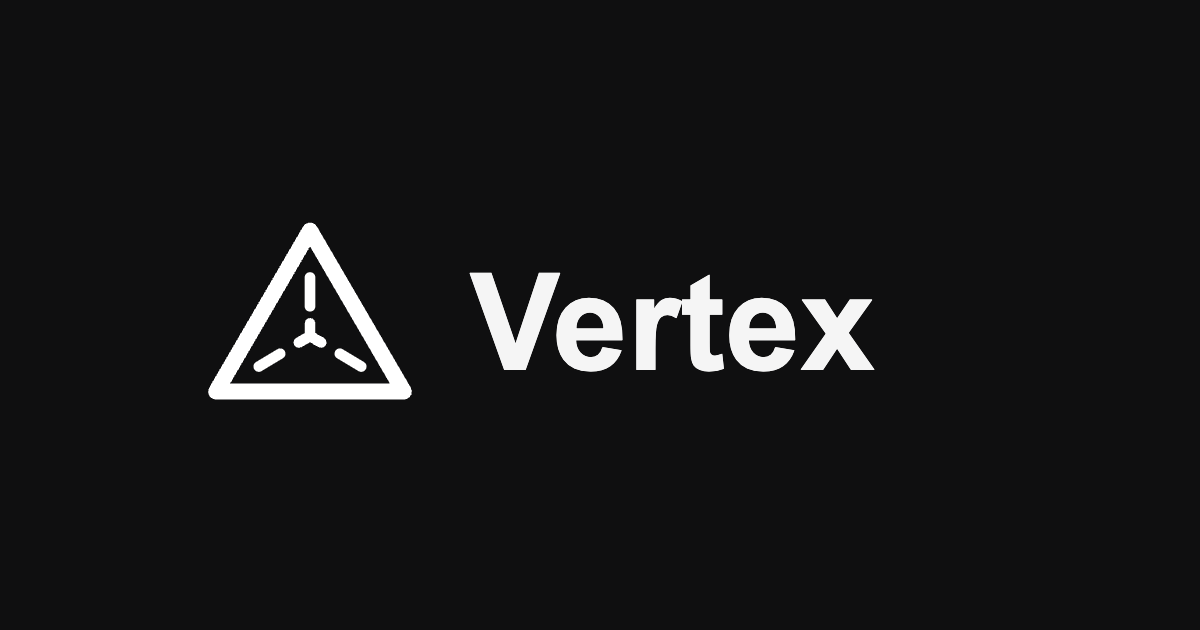
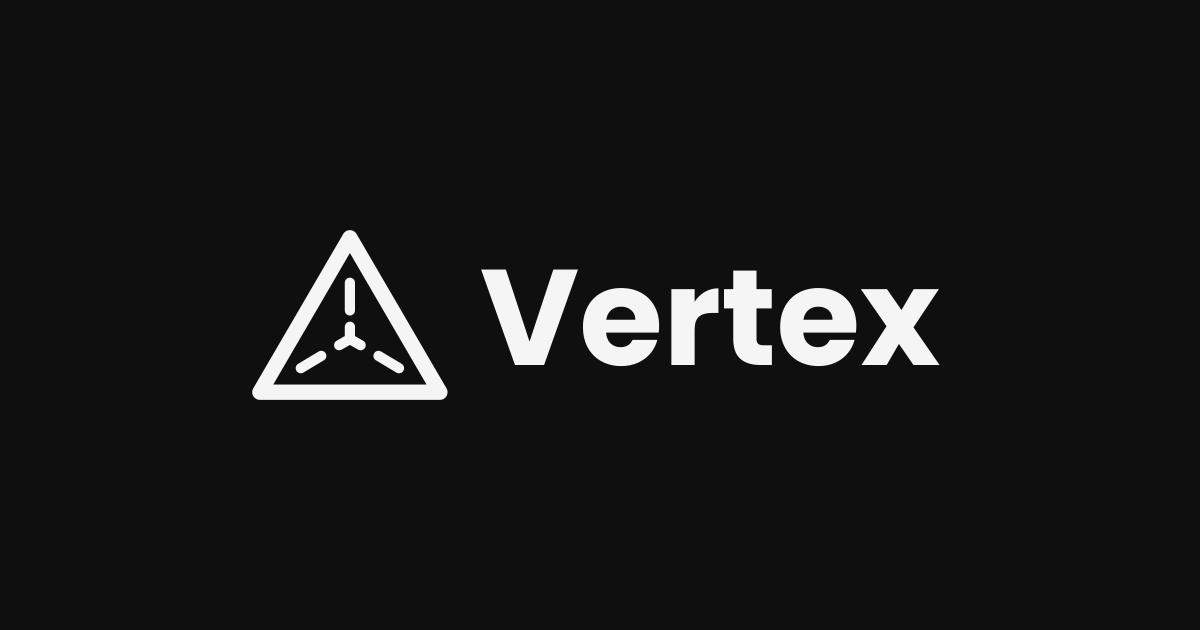
Center the main Vertex social preview using Origin's vector lockup and refresh all homepage image versions

Changed region(s): [[0.37, 0.4222, 0.8017, 0.6032], [0.1542, 0.3619, 0.37, 0.6333]]

diff --git a/hi/index.html b/hi/index.html
@@ -8,7 +8,7 @@
 </script>
 <meta charset="utf-8"/><meta content="Vertex नाम की भावना के अनुरूप हम अपनी पूरी क्षमता को सामने लाकर साथ मिलकर शिखर तक पहुँचेंगे, मानवता की समृद्धि में योगदान देंगे और कल की तकनीकों को आकार देंगे।" name="description"/>
 <meta content="width=device-width, initial-scale=1.0" name="viewport"/><link as="image" href="../assets/logo.svg" rel="preload"/>
-<title>Vertex | प्रौद्योगिकी का शिखर</title><link href="../assets/favicon.webp" rel="apple-touch-icon"/><meta content="#0E1013" name="theme-color"/><meta content="website" property="og:type"/><meta property="og:url" content="https://vertexishere.com/hi/"><meta content="Vertex | प्रौद्योगिकी का शिखर" property="og:title"/><meta content="Vertex नाम की भावना के अनुरूप हम अपनी पूरी क्षमता को सामने लाकर साथ मिलकर शिखर तक पहुँचेंगे, मानवता की समृद्धि में योगदान देंगे और कल की तकनीकों को आकार देंगे।" property="og:description"/><meta content="https://vertexishere.com/assets/og-image.png?v=cd7b9dbd49d6" property="og:image"/><meta property="og:image:width" content="1200"><meta property="og:image:height" content="630"><meta property="og:image:type" content="image/png"><meta property="og:image:alt" content="Vertex"><meta property="og:locale" content="hi_IN"><meta property="og:site_name" content="Vertex"><meta content="summary_large_image" name="twitter:card"/><meta content="Vertex | प्रौद्योगिकी का शिखर" name="twitter:title"/><meta content="Vertex नाम की भावना के अनुरूप हम अपनी पूरी क्षमता को सामने लाकर साथ मिलकर शिखर तक पहुँचेंगे, मानवता की समृद्धि में योगदान देंगे और कल की तकनीकों को आकार देंगे।" name="twitter:description"/><meta content="https://vertexishere.com/assets/og-image.png?v=cd7b9dbd49d6" name="twitter:image"/>
+<title>Vertex | प्रौद्योगिकी का शिखर</title><link href="../assets/favicon.webp" rel="apple-touch-icon"/><meta content="#0E1013" name="theme-color"/><meta content="website" property="og:type"/><meta property="og:url" content="https://vertexishere.com/hi/"><meta content="Vertex | प्रौद्योगिकी का शिखर" property="og:title"/><meta content="Vertex नाम की भावना के अनुरूप हम अपनी पूरी क्षमता को सामने लाकर साथ मिलकर शिखर तक पहुँचेंगे, मानवता की समृद्धि में योगदान देंगे और कल की तकनीकों को आकार देंगे।" property="og:description"/><meta content="https://vertexishere.com/assets/og-image.png?v=896a46522bb9" property="og:image"/><meta property="og:image:width" content="1200"><meta property="og:image:height" content="630"><meta property="og:image:type" content="image/png"><meta property="og:image:alt" content="Vertex"><meta property="og:locale" content="hi_IN"><meta property="og:site_name" content="Vertex"><meta content="summary_large_image" name="twitter:card"/><meta content="Vertex | प्रौद्योगिकी का शिखर" name="twitter:title"/><meta content="Vertex नाम की भावना के अनुरूप हम अपनी पूरी क्षमता को सामने लाकर साथ मिलकर शिखर तक पहुँचेंगे, मानवता की समृद्धि में योगदान देंगे और कल की तकनीकों को आकार देंगे।" name="twitter:description"/><meta content="https://vertexishere.com/assets/og-image.png?v=896a46522bb9" name="twitter:image"/>
 
 
 <link rel="stylesheet" href="/assets/fonts/fonts.css?v=c12fbbd8b60e">

diff --git a/ru/index.html b/ru/index.html
@@ -8,7 +8,7 @@
 </script>
 <meta charset="utf-8"/><meta content="Следуя смыслу названия Vertex, мы раскроем весь свой потенциал и вместе достигнем вершины, будем способствовать процветанию человечества и создавать технологии будущего." name="description"/>
 <meta content="width=device-width, initial-scale=1.0" name="viewport"/><link as="image" href="../assets/logo.svg" rel="preload"/>
-<title>Vertex | Вершина Технологий</title><link href="../assets/favicon.webp" rel="apple-touch-icon"/><meta content="#0E1013" name="theme-color"/><meta content="website" property="og:type"/><meta property="og:url" content="https://vertexishere.com/ru/"><meta content="Vertex | Вершина Технологий" property="og:title"/><meta content="Следуя смыслу названия Vertex, мы раскроем весь свой потенциал и вместе достигнем вершины, будем способствовать процветанию человечества и создавать технологии будущего." property="og:description"/><meta content="https://vertexishere.com/assets/og-image.png?v=cd7b9dbd49d6" property="og:image"/><meta property="og:image:width" content="1200"><meta property="og:image:height" content="630"><meta property="og:image:type" content="image/png"><meta property="og:image:alt" content="Vertex"><meta property="og:locale" content="ru_RU"><meta property="og:site_name" content="Vertex"><meta content="summary_large_image" name="twitter:card"/><meta content="Vertex | Вершина Технологий" name="twitter:title"/><meta content="Следуя смыслу названия Vertex, мы раскроем весь свой потенциал и вместе достигнем вершины, будем способствовать процветанию человечества и создавать технологии будущего." name="twitter:description"/><meta content="https://vertexishere.com/assets/og-image.png?v=cd7b9dbd49d6" name="twitter:image"/>
+<title>Vertex | Вершина Технологий</title><link href="../assets/favicon.webp" rel="apple-touch-icon"/><meta content="#0E1013" name="theme-color"/><meta content="website" property="og:type"/><meta property="og:url" content="https://vertexishere.com/ru/"><meta content="Vertex | Вершина Технологий" property="og:title"/><meta content="Следуя смыслу названия Vertex, мы раскроем весь свой потенциал и вместе достигнем вершины, будем способствовать процветанию человечества и создавать технологии будущего." property="og:description"/><meta content="https://vertexishere.com/assets/og-image.png?v=896a46522bb9" property="og:image"/><meta property="og:image:width" content="1200"><meta property="og:image:height" content="630"><meta property="og:image:type" content="image/png"><meta property="og:image:alt" content="Vertex"><meta property="og:locale" content="ru_RU"><meta property="og:site_name" content="Vertex"><meta content="summary_large_image" name="twitter:card"/><meta content="Vertex | Вершина Технологий" name="twitter:title"/><meta content="Следуя смыслу названия Vertex, мы раскроем весь свой потенциал и вместе достигнем вершины, будем способствовать процветанию человечества и создавать технологии будущего." name="twitter:description"/><meta content="https://vertexishere.com/assets/og-image.png?v=896a46522bb9" name="twitter:image"/>
 
 
 <link rel="stylesheet" href="/assets/fonts/fonts.css?v=c12fbbd8b60e">

diff --git a/tr/index.html b/tr/index.html
@@ -8,7 +8,7 @@
 </script>
 <meta charset="utf-8"/>
 <meta content="width=device-width, initial-scale=1.0" name="viewport"/><link as="image" href="../assets/logo.svg" rel="preload"/>
-<title>Vertex | Teknolojinin Zirvesi</title><link href="../assets/favicon.webp" rel="apple-touch-icon"/><meta content="#0E1013" name="theme-color"/><meta content="Vertex isminin anlamına uygun olarak potansiyelimizin tamamını ortaya koyup hep birlikte zirveye ulaşacağız; insanlığa refah sağlayacak ve geleceğin teknolojilerine yön vereceğiz." name="description"/><meta content="website" property="og:type"/><meta property="og:url" content="https://vertexishere.com/tr/"><meta content="Vertex | Teknolojinin Zirvesi" property="og:title"/><meta content="Vertex isminin anlamına uygun olarak potansiyelimizin tamamını ortaya koyup hep birlikte zirveye ulaşacağız; insanlığa refah sağlayacak ve geleceğin teknolojilerine yön vereceğiz." property="og:description"/><meta content="https://vertexishere.com/assets/og-image.png?v=cd7b9dbd49d6" property="og:image"/><meta property="og:image:width" content="1200"><meta property="og:image:height" content="630"><meta property="og:image:type" content="image/png"><meta property="og:image:alt" content="Vertex"><meta property="og:locale" content="tr_TR"><meta property="og:site_name" content="Vertex"><meta content="summary_large_image" name="twitter:card"/><meta content="Vertex | Teknolojinin Zirvesi" name="twitter:title"/><meta content="Vertex isminin anlamına uygun olarak potansiyelimizin tamamını ortaya koyup hep birlikte zirveye ulaşacağız; insanlığa refah sağlayacak ve geleceğin teknolojilerine yön vereceğiz." name="twitter:description"/><meta content="https://vertexishere.com/assets/og-image.png?v=cd7b9dbd49d6" name="twitter:image"/>
+<title>Vertex | Teknolojinin Zirvesi</title><link href="../assets/favicon.webp" rel="apple-touch-icon"/><meta content="#0E1013" name="theme-color"/><meta content="Vertex isminin anlamına uygun olarak potansiyelimizin tamamını ortaya koyup hep birlikte zirveye ulaşacağız; insanlığa refah sağlayacak ve geleceğin teknolojilerine yön vereceğiz." name="description"/><meta content="website" property="og:type"/><meta property="og:url" content="https://vertexishere.com/tr/"><meta content="Vertex | Teknolojinin Zirvesi" property="og:title"/><meta content="Vertex isminin anlamına uygun olarak potansiyelimizin tamamını ortaya koyup hep birlikte zirveye ulaşacağız; insanlığa refah sağlayacak ve geleceğin teknolojilerine yön vereceğiz." property="og:description"/><meta content="https://vertexishere.com/assets/og-image.png?v=896a46522bb9" property="og:image"/><meta property="og:image:width" content="1200"><meta property="og:image:height" content="630"><meta property="og:image:type" content="image/png"><meta property="og:image:alt" content="Vertex"><meta property="og:locale" content="tr_TR"><meta property="og:site_name" content="Vertex"><meta content="summary_large_image" name="twitter:card"/><meta content="Vertex | Teknolojinin Zirvesi" name="twitter:title"/><meta content="Vertex isminin anlamına uygun olarak potansiyelimizin tamamını ortaya koyup hep birlikte zirveye ulaşacağız; insanlığa refah sağlayacak ve geleceğin teknolojilerine yön vereceğiz." name="twitter:description"/><meta content="https://vertexishere.com/assets/og-image.png?v=896a46522bb9" name="twitter:image"/>
 
 
 <link rel="preload" as="font" type="font/woff2" href="/assets/fonts/font-1.woff2" crossorigin>

diff --git a/az/index.html b/az/index.html
@@ -8,7 +8,7 @@
 </script>
 <meta charset="utf-8"/><meta content="Vertex adının mənasına uyğun olaraq bütün potensialımızı ortaya qoyub birlikdə zirvəyə çatacaq, bəşəriyyətin rifahına töhfə verəcək və gələcəyin texnologiyalarını formalaşdıracağıq." name="description"/>
 <meta content="width=device-width, initial-scale=1.0" name="viewport"/><link as="image" href="../assets/logo.svg" rel="preload"/>
-<title>Vertex | Texnologiyanın Zirvəsi</title><link href="../assets/favicon.webp" rel="apple-touch-icon"/><meta content="#0E1013" name="theme-color"/><meta content="website" property="og:type"/><meta property="og:url" content="https://vertexishere.com/az/"><meta content="Vertex | Texnologiyanın Zirvəsi" property="og:title"/><meta content="Vertex adının mənasına uyğun olaraq bütün potensialımızı ortaya qoyub birlikdə zirvəyə çatacaq, bəşəriyyətin rifahına töhfə verəcək və gələcəyin texnologiyalarını formalaşdıracağıq." property="og:description"/><meta content="https://vertexishere.com/assets/og-image.png?v=cd7b9dbd49d6" property="og:image"/><meta property="og:image:width" content="1200"><meta property="og:image:height" content="630"><meta property="og:image:type" content="image/png"><meta property="og:image:alt" content="Vertex"><meta property="og:locale" content="az_AZ"><meta property="og:site_name" content="Vertex"><meta content="summary_large_image" name="twitter:card"/><meta content="Vertex | Texnologiyanın Zirvəsi" name="twitter:title"/><meta content="Vertex adının mənasına uyğun olaraq bütün potensialımızı ortaya qoyub birlikdə zirvəyə çatacaq, bəşəriyyətin rifahına töhfə verəcək və gələcəyin texnologiyalarını formalaşdıracağıq." name="twitter:description"/><meta content="https://vertexishere.com/assets/og-image.png?v=cd7b9dbd49d6" name="twitter:image"/>
+<title>Vertex | Texnologiyanın Zirvəsi</title><link href="../assets/favicon.webp" rel="apple-touch-icon"/><meta content="#0E1013" name="theme-color"/><meta content="website" property="og:type"/><meta property="og:url" content="https://vertexishere.com/az/"><meta content="Vertex | Texnologiyanın Zirvəsi" property="og:title"/><meta content="Vertex adının mənasına uyğun olaraq bütün potensialımızı ortaya qoyub birlikdə zirvəyə çatacaq, bəşəriyyətin rifahına töhfə verəcək və gələcəyin texnologiyalarını formalaşdıracağıq." property="og:description"/><meta content="https://vertexishere.com/assets/og-image.png?v=896a46522bb9" property="og:image"/><meta property="og:image:width" content="1200"><meta property="og:image:height" content="630"><meta property="og:image:type" content="image/png"><meta property="og:image:alt" content="Vertex"><meta property="og:locale" content="az_AZ"><meta property="og:site_name" content="Vertex"><meta content="summary_large_image" name="twitter:card"/><meta content="Vertex | Texnologiyanın Zirvəsi" name="twitter:title"/><meta content="Vertex adının mənasına uyğun olaraq bütün potensialımızı ortaya qoyub birlikdə zirvəyə çatacaq, bəşəriyyətin rifahına töhfə verəcək və gələcəyin texnologiyalarını formalaşdıracağıq." name="twitter:description"/><meta content="https://vertexishere.com/assets/og-image.png?v=896a46522bb9" name="twitter:image"/>
 
 
 <link rel="preload" as="font" type="font/woff2" href="/assets/fonts/font-1.woff2" crossorigin>

diff --git a/ar/index.html b/ar/index.html
@@ -8,7 +8,7 @@
 </script>
 <meta charset="utf-8"/><meta content="وانطلاقًا من معنى اسم Vertex، سنطلق كامل إمكاناتنا ونصل معًا إلى القمة، وسنسهم في ازدهار البشرية ونشكّل تقنيات الغد." name="description"/>
 <meta content="width=device-width, initial-scale=1.0" name="viewport"/><link as="image" href="../assets/logo.svg" rel="preload"/>
-<title>Vertex | قمة التكنولوجيا</title><link href="../assets/favicon.webp" rel="apple-touch-icon"/><meta content="#0E1013" name="theme-color"/><meta content="website" property="og:type"/><meta property="og:url" content="https://vertexishere.com/ar/"><meta content="Vertex | قمة التكنولوجيا" property="og:title"/><meta content="وانطلاقًا من معنى اسم Vertex، سنطلق كامل إمكاناتنا ونصل معًا إلى القمة، وسنسهم في ازدهار البشرية ونشكّل تقنيات الغد." property="og:description"/><meta content="https://vertexishere.com/assets/og-image.png?v=cd7b9dbd49d6" property="og:image"/><meta property="og:image:width" content="1200"><meta property="og:image:height" content="630"><meta property="og:image:type" content="image/png"><meta property="og:image:alt" content="Vertex"><meta property="og:locale" content="ar_AR"><meta property="og:site_name" content="Vertex"><meta content="summary_large_image" name="twitter:card"/><meta content="Vertex | قمة التكنولوجيا" name="twitter:title"/><meta content="وانطلاقًا من معنى اسم Vertex، سنطلق كامل إمكاناتنا ونصل معًا إلى القمة، وسنسهم في ازدهار البشرية ونشكّل تقنيات الغد." name="twitter:description"/><meta content="https://vertexishere.com/assets/og-image.png?v=cd7b9dbd49d6" name="twitter:image"/>
+<title>Vertex | قمة التكنولوجيا</title><link href="../assets/favicon.webp" rel="apple-touch-icon"/><meta content="#0E1013" name="theme-color"/><meta content="website" property="og:type"/><meta property="og:url" content="https://vertexishere.com/ar/"><meta content="Vertex | قمة التكنولوجيا" property="og:title"/><meta content="وانطلاقًا من معنى اسم Vertex، سنطلق كامل إمكاناتنا ونصل معًا إلى القمة، وسنسهم في ازدهار البشرية ونشكّل تقنيات الغد." property="og:description"/><meta content="https://vertexishere.com/assets/og-image.png?v=896a46522bb9" property="og:image"/><meta property="og:image:width" content="1200"><meta property="og:image:height" content="630"><meta property="og:image:type" content="image/png"><meta property="og:image:alt" content="Vertex"><meta property="og:locale" content="ar_AR"><meta property="og:site_name" content="Vertex"><meta content="summary_large_image" name="twitter:card"/><meta content="Vertex | قمة التكنولوجيا" name="twitter:title"/><meta content="وانطلاقًا من معنى اسم Vertex، سنطلق كامل إمكاناتنا ونصل معًا إلى القمة، وسنسهم في ازدهار البشرية ونشكّل تقنيات الغد." name="twitter:description"/><meta content="https://vertexishere.com/assets/og-image.png?v=896a46522bb9" name="twitter:image"/>
 
 
 <link rel="stylesheet" href="/assets/fonts/fonts.css?v=c12fbbd8b60e">

diff --git a/fr/index.html b/fr/index.html
@@ -8,7 +8,7 @@
 </script>
 <meta charset="utf-8"/><meta content="Fidèles au sens de notre nom, nous révélerons tout notre potentiel et atteindrons ensemble les sommets ; nous contribuerons à la prospérité de l'humanité et façonnerons les technologies de demain." name="description"/>
 <meta content="width=device-width, initial-scale=1.0" name="viewport"/><link as="image" href="../assets/logo.svg" rel="preload"/>
-<title>Vertex | Le Sommet de la Technologie</title><link href="../assets/favicon.webp" rel="apple-touch-icon"/><meta content="#0E1013" name="theme-color"/><meta content="website" property="og:type"/><meta property="og:url" content="https://vertexishere.com/fr/"><meta content="Vertex | Le Sommet de la Technologie" property="og:title"/><meta content="Fidèles au sens de notre nom, nous révélerons tout notre potentiel et atteindrons ensemble les sommets ; nous contribuerons à la prospérité de l'humanité et façonnerons les technologies de demain." property="og:description"/><meta content="https://vertexishere.com/assets/og-image.png?v=cd7b9dbd49d6" property="og:image"/><meta property="og:image:width" content="1200"><meta property="og:image:height" content="630"><meta property="og:image:type" content="image/png"><meta property="og:image:alt" content="Vertex"><meta property="og:locale" content="fr_FR"><meta property="og:site_name" content="Vertex"><meta content="summary_large_image" name="twitter:card"/><meta content="Vertex | Le Sommet de la Technologie" name="twitter:title"/><meta content="Fidèles au sens de notre nom, nous révélerons tout notre potentiel et atteindrons ensemble les sommets ; nous contribuerons à la prospérité de l'humanité et façonnerons les technologies de demain." name="twitter:description"/><meta content="https://vertexishere.com/assets/og-image.png?v=cd7b9dbd49d6" name="twitter:image"/>
+<title>Vertex | Le Sommet de la Technologie</title><link href="../assets/favicon.webp" rel="apple-touch-icon"/><meta content="#0E1013" name="theme-color"/><meta content="website" property="og:type"/><meta property="og:url" content="https://vertexishere.com/fr/"><meta content="Vertex | Le Sommet de la Technologie" property="og:title"/><meta content="Fidèles au sens de notre nom, nous révélerons tout notre potentiel et atteindrons ensemble les sommets ; nous contribuerons à la prospérité de l'humanité et façonnerons les technologies de demain." property="og:description"/><meta content="https://vertexishere.com/assets/og-image.png?v=896a46522bb9" property="og:image"/><meta property="og:image:width" content="1200"><meta property="og:image:height" content="630"><meta property="og:image:type" content="image/png"><meta property="og:image:alt" content="Vertex"><meta property="og:locale" content="fr_FR"><meta property="og:site_name" content="Vertex"><meta content="summary_large_image" name="twitter:card"/><meta content="Vertex | Le Sommet de la Technologie" name="twitter:title"/><meta content="Fidèles au sens de notre nom, nous révélerons tout notre potentiel et atteindrons ensemble les sommets ; nous contribuerons à la prospérité de l'humanité et façonnerons les technologies de demain." name="twitter:description"/><meta content="https://vertexishere.com/assets/og-image.png?v=896a46522bb9" name="twitter:image"/>
 
 
 <link rel="preload" as="font" type="font/woff2" href="/assets/fonts/font-1.woff2" crossorigin>

diff --git a/ja/index.html b/ja/index.html
@@ -8,7 +8,7 @@
 </script>
 <meta charset="utf-8"/><meta content="Vertexの名にふさわしく、私たちは可能性を最大限に引き出し、共に頂点を目指し、人類の繁栄に貢献しながら未来のテクノロジーを形づくります。" name="description"/>
 <meta content="width=device-width, initial-scale=1.0" name="viewport"/><link as="image" href="../assets/logo.svg" rel="preload"/>
-<title>Vertex | テクノロジーの頂点</title><link href="../assets/favicon.webp" rel="apple-touch-icon"/><meta content="#0E1013" name="theme-color"/><meta content="website" property="og:type"/><meta property="og:url" content="https://vertexishere.com/ja/"><meta content="Vertex | テクノロジーの頂点" property="og:title"/><meta content="Vertexの名にふさわしく、私たちは可能性を最大限に引き出し、共に頂点を目指し、人類の繁栄に貢献しながら未来のテクノロジーを形づくります。" property="og:description"/><meta content="https://vertexishere.com/assets/og-image.png?v=cd7b9dbd49d6" property="og:image"/><meta property="og:image:width" content="1200"><meta property="og:image:height" content="630"><meta property="og:image:type" content="image/png"><meta property="og:image:alt" content="Vertex"><meta property="og:locale" content="ja_JP"><meta property="og:site_name" content="Vertex"><meta content="summary_large_image" name="twitter:card"/><meta content="Vertex | テクノロジーの頂点" name="twitter:title"/><meta content="Vertexの名にふさわしく、私たちは可能性を最大限に引き出し、共に頂点を目指し、人類の繁栄に貢献しながら未来のテクノロジーを形づくります。" name="twitter:description"/><meta content="https://vertexishere.com/assets/og-image.png?v=cd7b9dbd49d6" name="twitter:image"/>
+<title>Vertex | テクノロジーの頂点</title><link href="../assets/favicon.webp" rel="apple-touch-icon"/><meta content="#0E1013" name="theme-color"/><meta content="website" property="og:type"/><meta property="og:url" content="https://vertexishere.com/ja/"><meta content="Vertex | テクノロジーの頂点" property="og:title"/><meta content="Vertexの名にふさわしく、私たちは可能性を最大限に引き出し、共に頂点を目指し、人類の繁栄に貢献しながら未来のテクノロジーを形づくります。" property="og:description"/><meta content="https://vertexishere.com/assets/og-image.png?v=896a46522bb9" property="og:image"/><meta property="og:image:width" content="1200"><meta property="og:image:height" content="630"><meta property="og:image:type" content="image/png"><meta property="og:image:alt" content="Vertex"><meta property="og:locale" content="ja_JP"><meta property="og:site_name" content="Vertex"><meta content="summary_large_image" name="twitter:card"/><meta content="Vertex | テクノロジーの頂点" name="twitter:title"/><meta content="Vertexの名にふさわしく、私たちは可能性を最大限に引き出し、共に頂点を目指し、人類の繁栄に貢献しながら未来のテクノロジーを形づくります。" name="twitter:description"/><meta content="https://vertexishere.com/assets/og-image.png?v=896a46522bb9" name="twitter:image"/>
 
 
 <link rel="stylesheet" href="/assets/fonts/fonts.css?v=c12fbbd8b60e">

diff --git a/es/index.html b/es/index.html
@@ -8,7 +8,7 @@
 </script>
 <meta charset="utf-8"/><meta content="Fieles al significado de Vertex, desplegaremos todo nuestro potencial y alcanzaremos juntos la cima; contribuiremos al bienestar de la humanidad y daremos forma a las tecnologías del mañana." name="description"/>
 <meta content="width=device-width, initial-scale=1.0" name="viewport"/><link as="image" href="../assets/logo.svg" rel="preload"/>
-<title>Vertex | La Cima de la Tecnología</title><link href="../assets/favicon.webp" rel="apple-touch-icon"/><meta content="#0E1013" name="theme-color"/><meta content="website" property="og:type"/><meta property="og:url" content="https://vertexishere.com/es/"><meta content="Vertex | La Cima de la Tecnología" property="og:title"/><meta content="Fieles al significado de Vertex, desplegaremos todo nuestro potencial y alcanzaremos juntos la cima; contribuiremos al bienestar de la humanidad y daremos forma a las tecnologías del mañana." property="og:description"/><meta content="https://vertexishere.com/assets/og-image.png?v=cd7b9dbd49d6" property="og:image"/><meta property="og:image:width" content="1200"><meta property="og:image:height" content="630"><meta property="og:image:type" content="image/png"><meta property="og:image:alt" content="Vertex"><meta property="og:locale" content="es_ES"><meta property="og:site_name" content="Vertex"><meta content="summary_large_image" name="twitter:card"/><meta content="Vertex | La Cima de la Tecnología" name="twitter:title"/><meta content="Fieles al significado de Vertex, desplegaremos todo nuestro potencial y alcanzaremos juntos la cima; contribuiremos al bienestar de la humanidad y daremos forma a las tecnologías del mañana." name="twitter:description"/><meta content="https://vertexishere.com/assets/og-image.png?v=cd7b9dbd49d6" name="twitter:image"/>
+<title>Vertex | La Cima de la Tecnología</title><link href="../assets/favicon.webp" rel="apple-touch-icon"/><meta content="#0E1013" name="theme-color"/><meta content="website" property="og:type"/><meta property="og:url" content="https://vertexishere.com/es/"><meta content="Vertex | La Cima de la Tecnología" property="og:title"/><meta content="Fieles al significado de Vertex, desplegaremos todo nuestro potencial y alcanzaremos juntos la cima; contribuiremos al bienestar de la humanidad y daremos forma a las tecnologías del mañana." property="og:description"/><meta content="https://vertexishere.com/assets/og-image.png?v=896a46522bb9" property="og:image"/><meta property="og:image:width" content="1200"><meta property="og:image:height" content="630"><meta property="og:image:type" content="image/png"><meta property="og:image:alt" content="Vertex"><meta property="og:locale" content="es_ES"><meta property="og:site_name" content="Vertex"><meta content="summary_large_image" name="twitter:card"/><meta content="Vertex | La Cima de la Tecnología" name="twitter:title"/><meta content="Fieles al significado de Vertex, desplegaremos todo nuestro potencial y alcanzaremos juntos la cima; contribuiremos al bienestar de la humanidad y daremos forma a las tecnologías del mañana." name="twitter:description"/><meta content="https://vertexishere.com/assets/og-image.png?v=896a46522bb9" name="twitter:image"/>
 
 
 <link rel="preload" as="font" type="font/woff2" href="/assets/fonts/font-1.woff2" crossorigin>

diff --git a/nl/index.html b/nl/index.html
@@ -8,7 +8,7 @@
 </script>
 <meta charset="utf-8"/><meta content="In lijn met de betekenis van Vertex willen we ons volledige potentieel benutten en samen de top bereiken, bijdragen aan de welvaart van de mensheid en de technologieën van morgen vormgeven." name="description"/>
 <meta content="width=device-width, initial-scale=1.0" name="viewport"/><link as="image" href="../assets/logo.svg" rel="preload"/>
-<title>Vertex | De Top van Technologie</title><link href="../assets/favicon.webp" rel="apple-touch-icon"/><meta content="#0E1013" name="theme-color"/><meta content="website" property="og:type"/><meta property="og:url" content="https://vertexishere.com/nl/"><meta content="Vertex | De Top van Technologie" property="og:title"/><meta content="In lijn met de betekenis van Vertex willen we ons volledige potentieel benutten en samen de top bereiken, bijdragen aan de welvaart van de mensheid en de technologieën van morgen vormgeven." property="og:description"/><meta content="https://vertexishere.com/assets/og-image.png?v=cd7b9dbd49d6" property="og:image"/><meta property="og:image:width" content="1200"><meta property="og:image:height" content="630"><meta property="og:image:type" content="image/png"><meta property="og:image:alt" content="Vertex"><meta property="og:locale" content="nl_NL"><meta property="og:site_name" content="Vertex"><meta content="summary_large_image" name="twitter:card"/><meta content="Vertex | De Top van Technologie" name="twitter:title"/><meta content="In lijn met de betekenis van Vertex willen we ons volledige potentieel benutten en samen de top bereiken, bijdragen aan de welvaart van de mensheid en de technologieën van morgen vormgeven." name="twitter:description"/><meta content="https://vertexishere.com/assets/og-image.png?v=cd7b9dbd49d6" name="twitter:image"/>
+<title>Vertex | De Top van Technologie</title><link href="../assets/favicon.webp" rel="apple-touch-icon"/><meta content="#0E1013" name="theme-color"/><meta content="website" property="og:type"/><meta property="og:url" content="https://vertexishere.com/nl/"><meta content="Vertex | De Top van Technologie" property="og:title"/><meta content="In lijn met de betekenis van Vertex willen we ons volledige potentieel benutten en samen de top bereiken, bijdragen aan de welvaart van de mensheid en de technologieën van morgen vormgeven." property="og:description"/><meta content="https://vertexishere.com/assets/og-image.png?v=896a46522bb9" property="og:image"/><meta property="og:image:width" content="1200"><meta property="og:image:height" content="630"><meta property="og:image:type" content="image/png"><meta property="og:image:alt" content="Vertex"><meta property="og:locale" content="nl_NL"><meta property="og:site_name" content="Vertex"><meta content="summary_large_image" name="twitter:card"/><meta content="Vertex | De Top van Technologie" name="twitter:title"/><meta content="In lijn met de betekenis van Vertex willen we ons volledige potentieel benutten en samen de top bereiken, bijdragen aan de welvaart van de mensheid en de technologieën van morgen vormgeven." name="twitter:description"/><meta content="https://vertexishere.com/assets/og-image.png?v=896a46522bb9" name="twitter:image"/>
 
 
 <link rel="preload" as="font" type="font/woff2" href="/assets/fonts/font-1.woff2" crossorigin>

diff --git a/de/index.html b/de/index.html
@@ -8,7 +8,7 @@
 </script>
 <meta charset="utf-8"/><meta content="Im Sinne unseres Namens werden wir unser volles Potenzial entfalten und gemeinsam den Gipfel erreichen, zum Wohlstand der Menschheit beitragen und die Technologien von morgen gestalten." name="description"/>
 <meta content="width=device-width, initial-scale=1.0" name="viewport"/><link as="image" href="../assets/logo.svg" rel="preload"/>
-<title>Vertex | Der Gipfel der Technologie</title><link href="../assets/favicon.webp" rel="apple-touch-icon"/><meta content="#0E1013" name="theme-color"/><meta content="website" property="og:type"/><meta property="og:url" content="https://vertexishere.com/de/"><meta content="Vertex | Der Gipfel der Technologie" property="og:title"/><meta content="Im Sinne unseres Namens werden wir unser volles Potenzial entfalten und gemeinsam den Gipfel erreichen, zum Wohlstand der Menschheit beitragen und die Technologien von morgen gestalten." property="og:description"/><meta content="https://vertexishere.com/assets/og-image.png?v=cd7b9dbd49d6" property="og:image"/><meta property="og:image:width" content="1200"><meta property="og:image:height" content="630"><meta property="og:image:type" content="image/png"><meta property="og:image:alt" content="Vertex"><meta property="og:locale" content="de_DE"><meta property="og:site_name" content="Vertex"><meta content="summary_large_image" name="twitter:card"/><meta content="Vertex | Der Gipfel der Technologie" name="twitter:title"/><meta content="Im Sinne unseres Namens werden wir unser volles Potenzial entfalten und gemeinsam den Gipfel erreichen, zum Wohlstand der Menschheit beitragen und die Technologien von morgen gestalten." name="twitter:description"/><meta content="https://vertexishere.com/assets/og-image.png?v=cd7b9dbd49d6" name="twitter:image"/>
+<title>Vertex | Der Gipfel der Technologie</title><link href="../assets/favicon.webp" rel="apple-touch-icon"/><meta content="#0E1013" name="theme-color"/><meta content="website" property="og:type"/><meta property="og:url" content="https://vertexishere.com/de/"><meta content="Vertex | Der Gipfel der Technologie" property="og:title"/><meta content="Im Sinne unseres Namens werden wir unser volles Potenzial entfalten und gemeinsam den Gipfel erreichen, zum Wohlstand der Menschheit beitragen und die Technologien von morgen gestalten." property="og:description"/><meta content="https://vertexishere.com/assets/og-image.png?v=896a46522bb9" property="og:image"/><meta property="og:image:width" content="1200"><meta property="og:image:height" content="630"><meta property="og:image:type" content="image/png"><meta property="og:image:alt" content="Vertex"><meta property="og:locale" content="de_DE"><meta property="og:site_name" content="Vertex"><meta content="summary_large_image" name="twitter:card"/><meta content="Vertex | Der Gipfel der Technologie" name="twitter:title"/><meta content="Im Sinne unseres Namens werden wir unser volles Potenzial entfalten und gemeinsam den Gipfel erreichen, zum Wohlstand der Menschheit beitragen und die Technologien von morgen gestalten." name="twitter:description"/><meta content="https://vertexishere.com/assets/og-image.png?v=896a46522bb9" name="twitter:image"/>
 
 
 <link rel="preload" as="font" type="font/woff2" href="/assets/fonts/font-1.woff2" crossorigin>

diff --git a/it/index.html b/it/index.html
@@ -8,7 +8,7 @@
 </script>
 <meta charset="utf-8"/><meta content="Fedeli al significato di Vertex, esprimeremo tutto il nostro potenziale e raggiungeremo insieme la vetta, contribuendo al benessere dell'umanità e plasmando le tecnologie di domani." name="description"/>
 <meta content="width=device-width, initial-scale=1.0" name="viewport"/><link as="image" href="../assets/logo.svg" rel="preload"/>
-<title>Vertex | Il Picco della Tecnologia</title><link href="../assets/favicon.webp" rel="apple-touch-icon"/><meta content="#0E1013" name="theme-color"/><meta content="website" property="og:type"/><meta property="og:url" content="https://vertexishere.com/it/"><meta content="Vertex | Il Picco della Tecnologia" property="og:title"/><meta content="Fedeli al significato di Vertex, esprimeremo tutto il nostro potenziale e raggiungeremo insieme la vetta, contribuendo al benessere dell'umanità e plasmando le tecnologie di domani." property="og:description"/><meta content="https://vertexishere.com/assets/og-image.png?v=cd7b9dbd49d6" property="og:image"/><meta property="og:image:width" content="1200"><meta property="og:image:height" content="630"><meta property="og:image:type" content="image/png"><meta property="og:image:alt" content="Vertex"><meta property="og:locale" content="it_IT"><meta property="og:site_name" content="Vertex"><meta content="summary_large_image" name="twitter:card"/><meta content="Vertex | Il Picco della Tecnologia" name="twitter:title"/><meta content="Fedeli al significato di Vertex, esprimeremo tutto il nostro potenziale e raggiungeremo insieme la vetta, contribuendo al benessere dell'umanità e plasmando le tecnologie di domani." name="twitter:description"/><meta content="https://vertexishere.com/assets/og-image.png?v=cd7b9dbd49d6" name="twitter:image"/>
+<title>Vertex | Il Picco della Tecnologia</title><link href="../assets/favicon.webp" rel="apple-touch-icon"/><meta content="#0E1013" name="theme-color"/><meta content="website" property="og:type"/><meta property="og:url" content="https://vertexishere.com/it/"><meta content="Vertex | Il Picco della Tecnologia" property="og:title"/><meta content="Fedeli al significato di Vertex, esprimeremo tutto il nostro potenziale e raggiungeremo insieme la vetta, contribuendo al benessere dell'umanità e plasmando le tecnologie di domani." property="og:description"/><meta content="https://vertexishere.com/assets/og-image.png?v=896a46522bb9" property="og:image"/><meta property="og:image:width" content="1200"><meta property="og:image:height" content="630"><meta property="og:image:type" content="image/png"><meta property="og:image:alt" content="Vertex"><meta property="og:locale" content="it_IT"><meta property="og:site_name" content="Vertex"><meta content="summary_large_image" name="twitter:card"/><meta content="Vertex | Il Picco della Tecnologia" name="twitter:title"/><meta content="Fedeli al significato di Vertex, esprimeremo tutto il nostro potenziale e raggiungeremo insieme la vetta, contribuendo al benessere dell'umanità e plasmando le tecnologie di domani." name="twitter:description"/><meta content="https://vertexishere.com/assets/og-image.png?v=896a46522bb9" name="twitter:image"/>
 
 
 <link rel="preload" as="font" type="font/woff2" href="/assets/fonts/font-1.woff2" crossorigin>

diff --git a/pt/index.html b/pt/index.html
@@ -8,7 +8,7 @@
 </script>
 <meta charset="utf-8"/><meta content="Fiéis ao significado de Vertex, vamos alcançar todo o nosso potencial e chegar juntos ao topo, contribuindo para a prosperidade da humanidade e moldando as tecnologias de amanhã." name="description"/>
 <meta content="width=device-width, initial-scale=1.0" name="viewport"/><link as="image" href="../assets/logo.svg" rel="preload"/>
-<title>Vertex | O Pico da Tecnologia</title><link href="../assets/favicon.webp" rel="apple-touch-icon"/><meta content="#0E1013" name="theme-color"/><meta content="website" property="og:type"/><meta property="og:url" content="https://vertexishere.com/pt/"><meta content="Vertex | O Pico da Tecnologia" property="og:title"/><meta content="Fiéis ao significado de Vertex, vamos alcançar todo o nosso potencial e chegar juntos ao topo, contribuindo para a prosperidade da humanidade e moldando as tecnologias de amanhã." property="og:description"/><meta content="https://vertexishere.com/assets/og-image.png?v=cd7b9dbd49d6" property="og:image"/><meta property="og:image:width" content="1200"><meta property="og:image:height" content="630"><meta property="og:image:type" content="image/png"><meta property="og:image:alt" content="Vertex"><meta property="og:locale" content="pt_PT"><meta property="og:site_name" content="Vertex"><meta content="summary_large_image" name="twitter:card"/><meta content="Vertex | O Pico da Tecnologia" name="twitter:title"/><meta content="Fiéis ao significado de Vertex, vamos alcançar todo o nosso potencial e chegar juntos ao topo, contribuindo para a prosperidade da humanidade e moldando as tecnologias de amanhã." name="twitter:description"/><meta content="https://vertexishere.com/assets/og-image.png?v=cd7b9dbd49d6" name="twitter:image"/>
+<title>Vertex | O Pico da Tecnologia</title><link href="../assets/favicon.webp" rel="apple-touch-icon"/><meta content="#0E1013" name="theme-color"/><meta content="website" property="og:type"/><meta property="og:url" content="https://vertexishere.com/pt/"><meta content="Vertex | O Pico da Tecnologia" property="og:title"/><meta content="Fiéis ao significado de Vertex, vamos alcançar todo o nosso potencial e chegar juntos ao topo, contribuindo para a prosperidade da humanidade e moldando as tecnologias de amanhã." property="og:description"/><meta content="https://vertexishere.com/assets/og-image.png?v=896a46522bb9" property="og:image"/><meta property="og:image:width" content="1200"><meta property="og:image:height" content="630"><meta property="og:image:type" content="image/png"><meta property="og:image:alt" content="Vertex"><meta property="og:locale" content="pt_PT"><meta property="og:site_name" content="Vertex"><meta content="summary_large_image" name="twitter:card"/><meta content="Vertex | O Pico da Tecnologia" name="twitter:title"/><meta content="Fiéis ao significado de Vertex, vamos alcançar todo o nosso potencial e chegar juntos ao topo, contribuindo para a prosperidade da humanidade e moldando as tecnologias de amanhã." name="twitter:description"/><meta content="https://vertexishere.com/assets/og-image.png?v=896a46522bb9" name="twitter:image"/>
 
 
 <link rel="preload" as="font" type="font/woff2" href="/assets/fonts/font-1.woff2" crossorigin>
